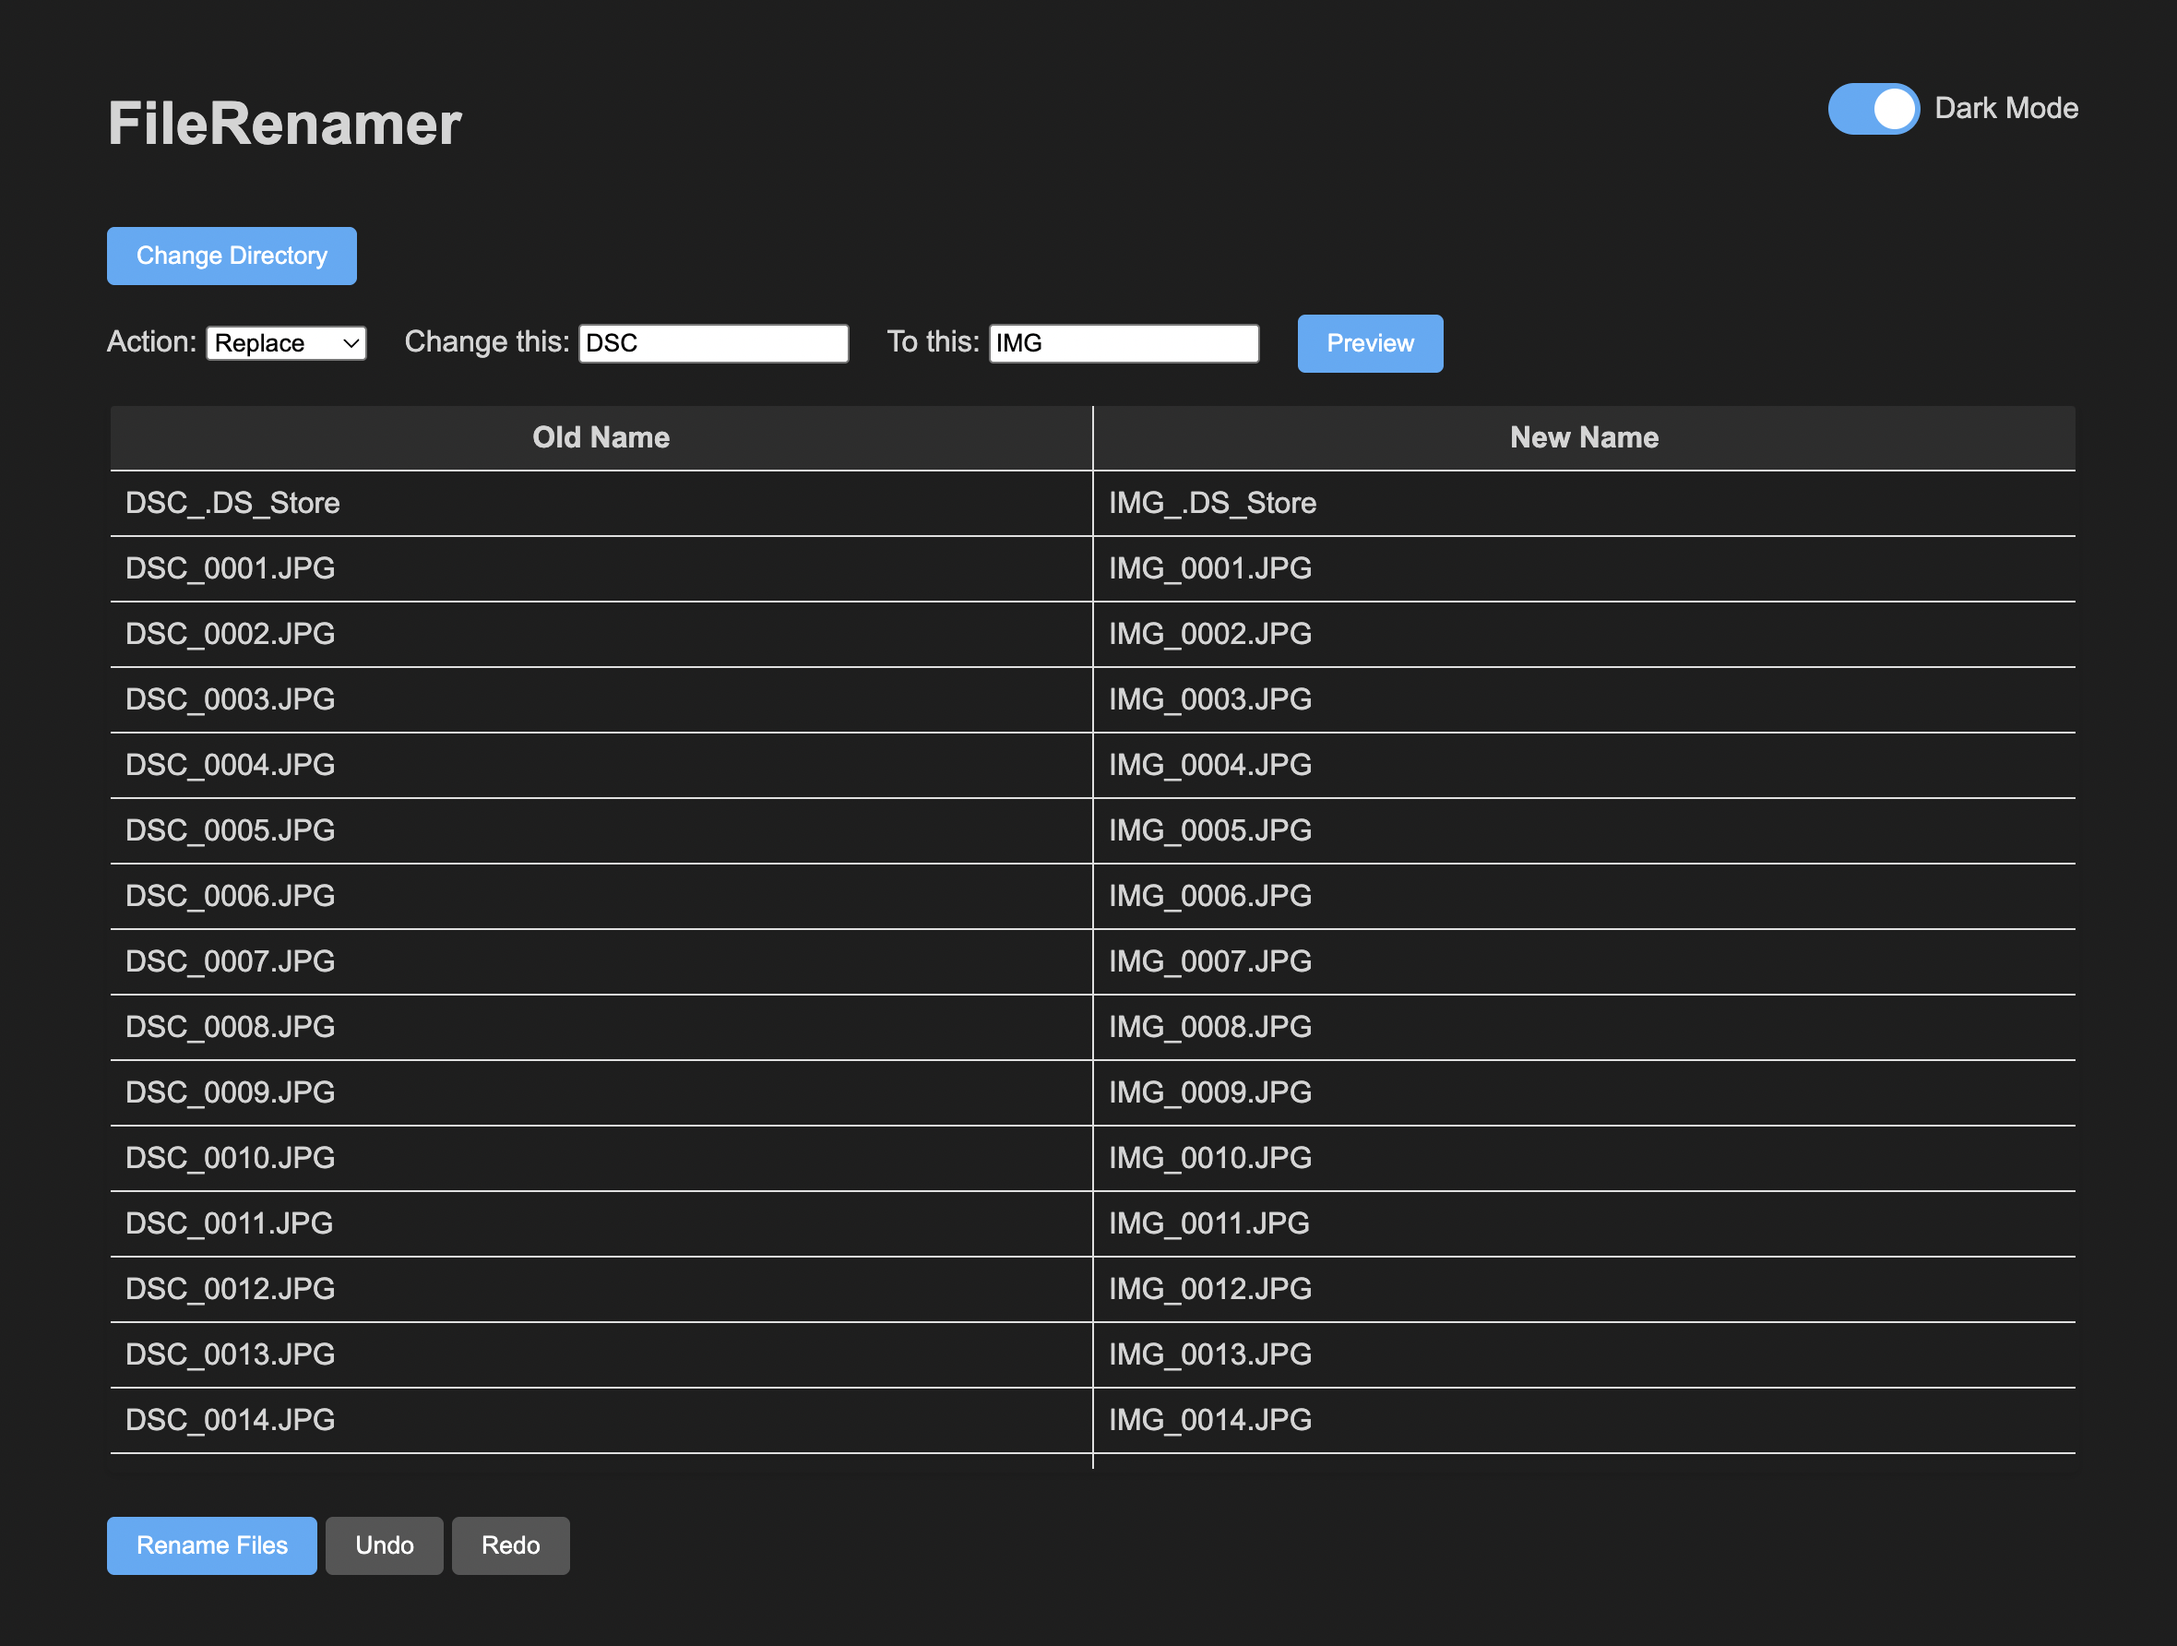
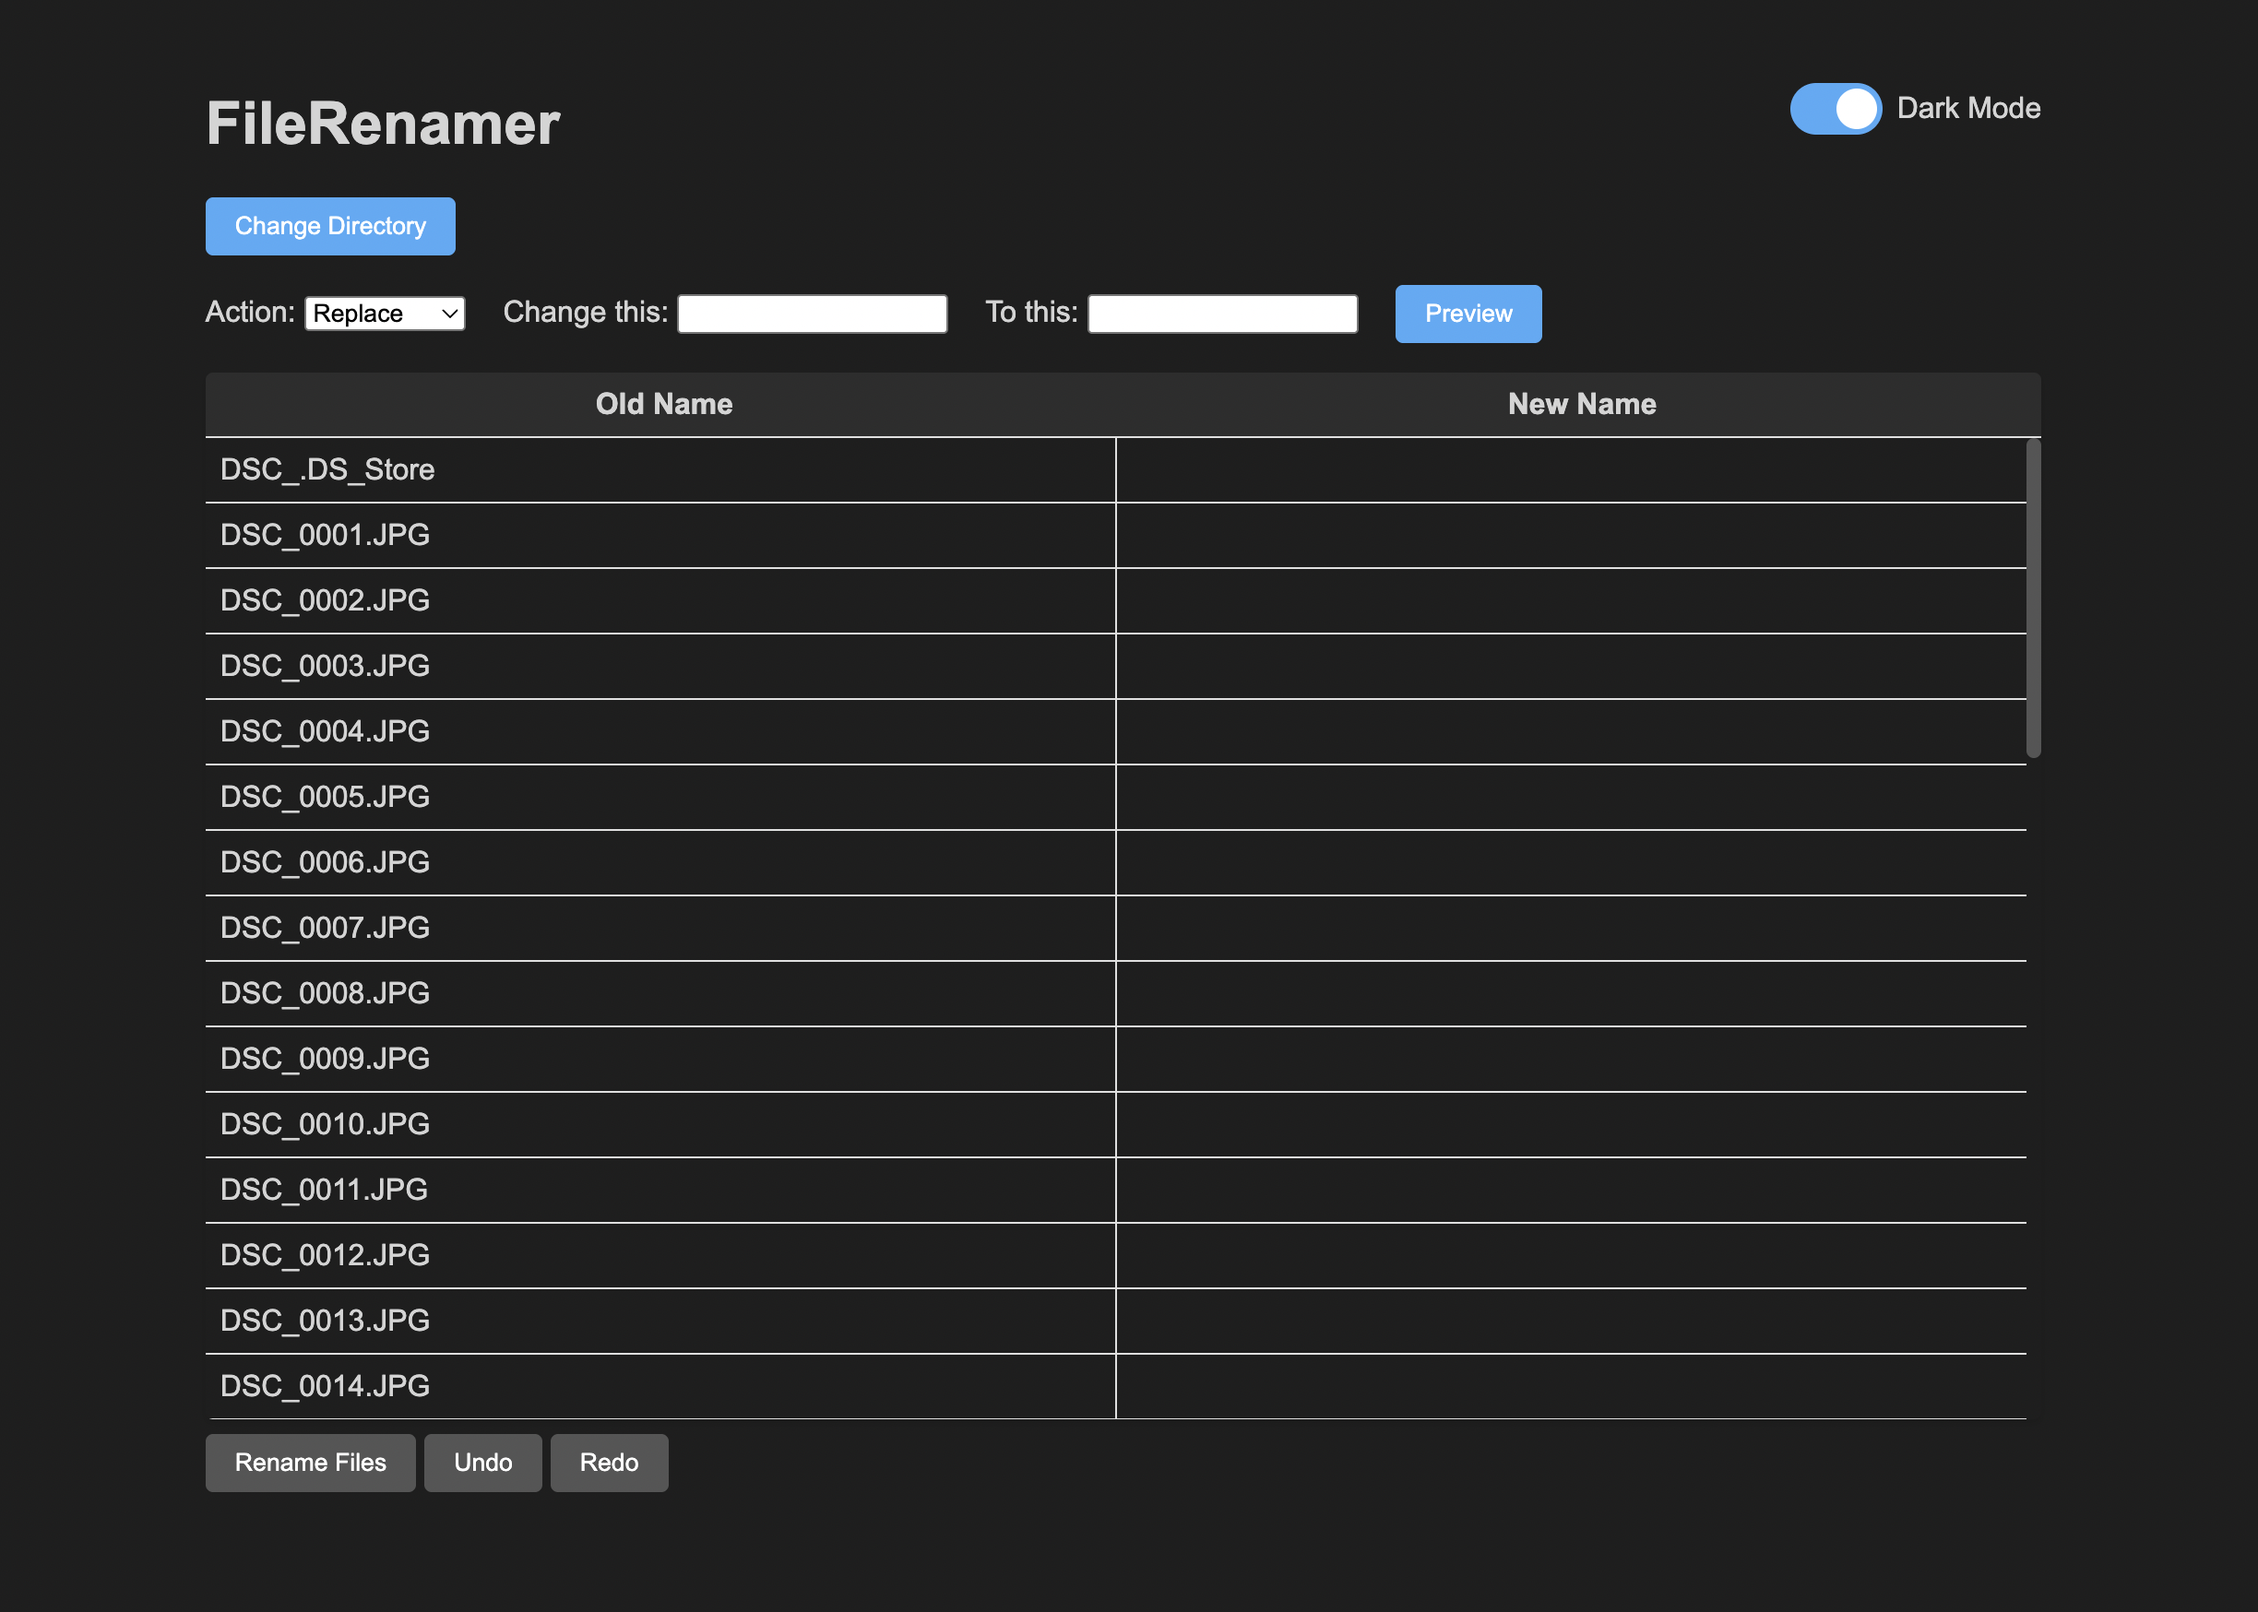
update design and example

diff --git a/filerenamer/static/style.css b/filerenamer/static/style.css
@@ -16,7 +16,8 @@ body.dark-mode {
 }
 body {
   font-family: "Segoe UI", Arial, sans-serif;
-  margin: 2rem 4rem;
+  max-width: 80%;
+  margin: 2rem auto;
   background: var(--bg);
   color: var(--fg);
   transition: background 0.2s ease, color 0.2s ease;
@@ -39,20 +40,29 @@ input, select { margin-right: 1rem; }
 }
 table {
   border-collapse: collapse;
+  border-spacing: 0;
   width: 100%;
-  margin-top: 1rem;
-  margin-bottom: 1rem;
   table-layout: fixed;
-  border: 2px solid var(--table-border);
   border-radius: 4px;
   box-shadow: 0 2px 4px rgba(0, 0, 0, 0.1);
   overflow: hidden;
+  /* Show vertical scrollbar hint */
+  tbody::-webkit-scrollbar {
+    width: 8px;
+  }
+  tbody::-webkit-scrollbar-thumb {
+    background-color: var(--disabled);
+    border-radius: 4px;
+  }
 }
 th, td {
   border-bottom: 1px solid #e0e0e0;
   border-right: 1px solid #e0e0e0;
   padding: 0.5rem;
   overflow-wrap: anywhere;
+}
+thead th {
+  border-right: none; /* remove vertical header border to align with scrollbar offset */
 }
 /* Remove right border on last child to avoid double border */
 td:last-child, th:last-child {
@@ -67,6 +77,8 @@ tbody {
   max-height: 60vh;
   overflow-y: auto;
   display: block;
+  /* Reserve space for scrollbar so header columns stay aligned */
+  scrollbar-gutter: stable;
 }
 thead, tbody tr {
   display: table;
@@ -145,5 +157,4 @@ thead, tbody tr {
   display: flex;
   align-items: center;
   justify-content: space-between;
-  margin-bottom: 1rem;
 }

diff --git a/filerenamer/templates/index.html b/filerenamer/templates/index.html
@@ -23,7 +23,7 @@
     <span id="currentDir" style="margin-left: 1rem; font-weight: bold;"></span>
   </div>
 
-  <div>
+  <div style="margin-bottom: 1rem;">
     <!-- Action selector -->
     <label>
       Action:
@@ -86,18 +86,5 @@
 
 </script>
   <script src="/static/app.js"></script>
-  <script>
-    // Dark‑mode toggle
-    const themeToggle = document.getElementById("themeToggle");
-    const userPref = localStorage.getItem("filerenamer-theme");
-    if (userPref === "dark") {
-      document.body.classList.add("dark-mode");
-      themeToggle.checked = true;
-    }
-    themeToggle.addEventListener("change", () => {
-      document.body.classList.toggle("dark-mode", themeToggle.checked);
-      localStorage.setItem("filerenamer-theme", themeToggle.checked ? "dark" : "light");
-    });
-  </script>
 </body>
 </html>

diff --git a/filerenamer/static/app.js b/filerenamer/static/app.js
@@ -13,6 +13,19 @@
   const redoBtn = document.getElementById("redoBtn");
   const statusDiv = document.getElementById("status");
 
+  const themeToggle = document.getElementById("themeToggle");
+  const userPref = localStorage.getItem("filerenamer-theme");
+  
+  // Dark‑mode toggle
+  if (userPref === "dark") {
+    document.body.classList.add("dark-mode");
+    themeToggle.checked = true;
+  }
+  themeToggle.addEventListener("change", () => {
+    document.body.classList.toggle("dark-mode", themeToggle.checked);
+    localStorage.setItem("filerenamer-theme", themeToggle.checked ? "dark" : "light");
+  });
+
   function setCurrentDir(dir) {
     currentDirSpan.textContent = "Directory: " + dir;
   }
